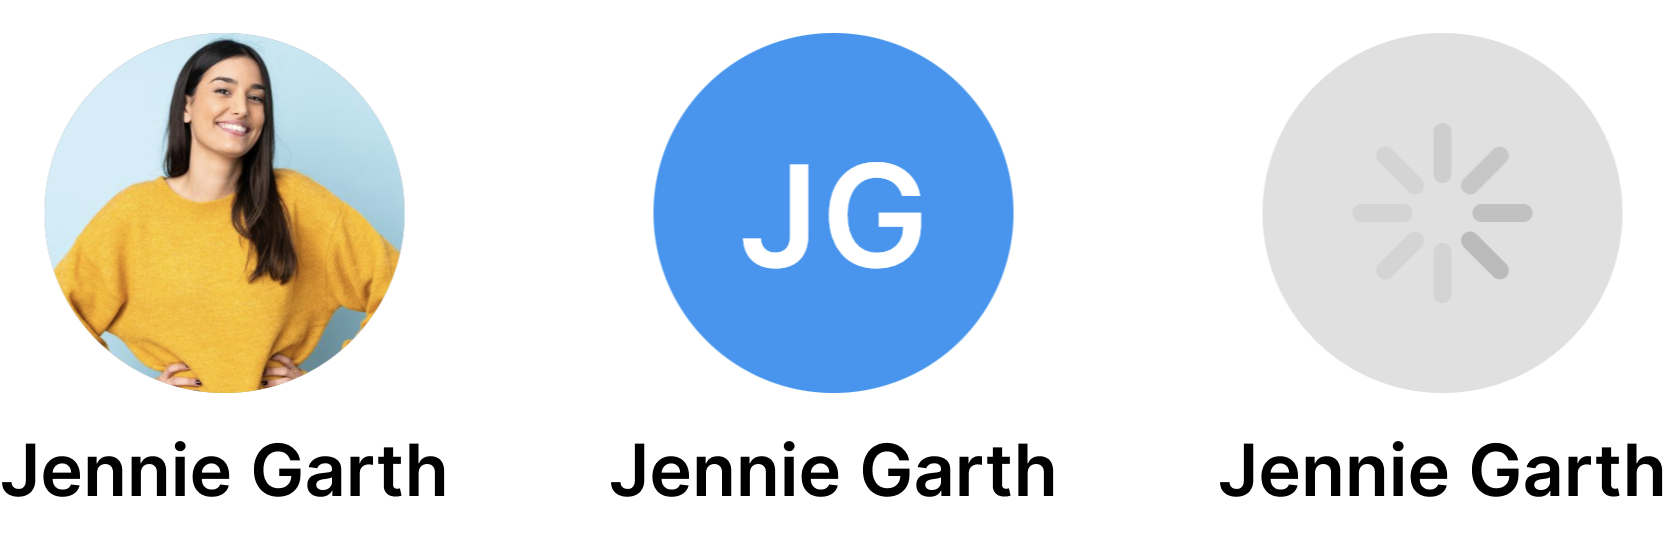
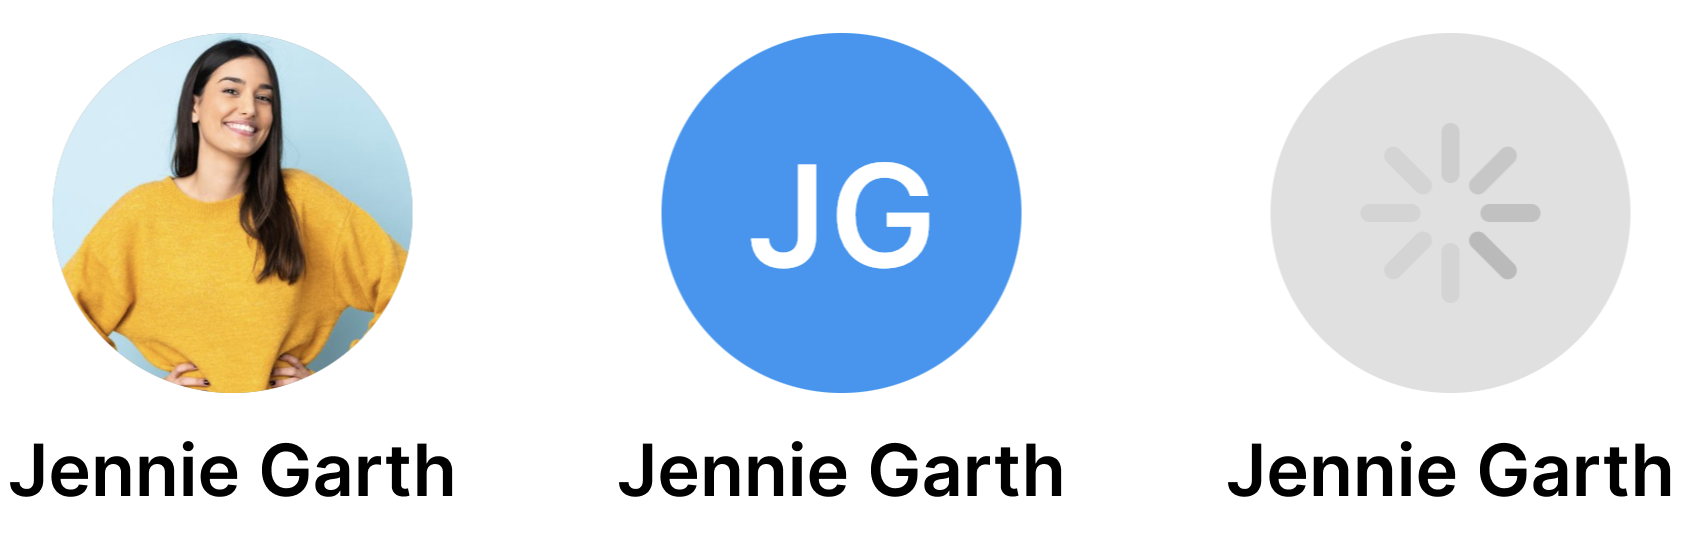
x

diff --git a/README.md b/README.md
@@ -94,7 +94,7 @@ Widget resizeAvatarBrick() =>
 
 #### Customize colors for avatars without images
 
-<a href="https://github.com/congson99/avatar_brick/blob/son/release1.0.0/assets/screenshots/example_size.png?raw=true"><img src="https://github.com/congson99/avatar_brick/blob/son/release1.0.0/assets/screenshots/example_size.png?raw=true" alt="Icon" height="200"></a>
+<a href="https://github.com/congson99/avatar_brick/blob/son/release1.0.0/assets/screenshots/example_color.png?raw=true"><img src="https://github.com/congson99/avatar_brick/blob/son/release1.0.0/assets/screenshots/example_color.png?raw=true" alt="Icon" height="120"></a>
 
 You can customize the color of the background, border, abbreviation name. Try the following example:
 
